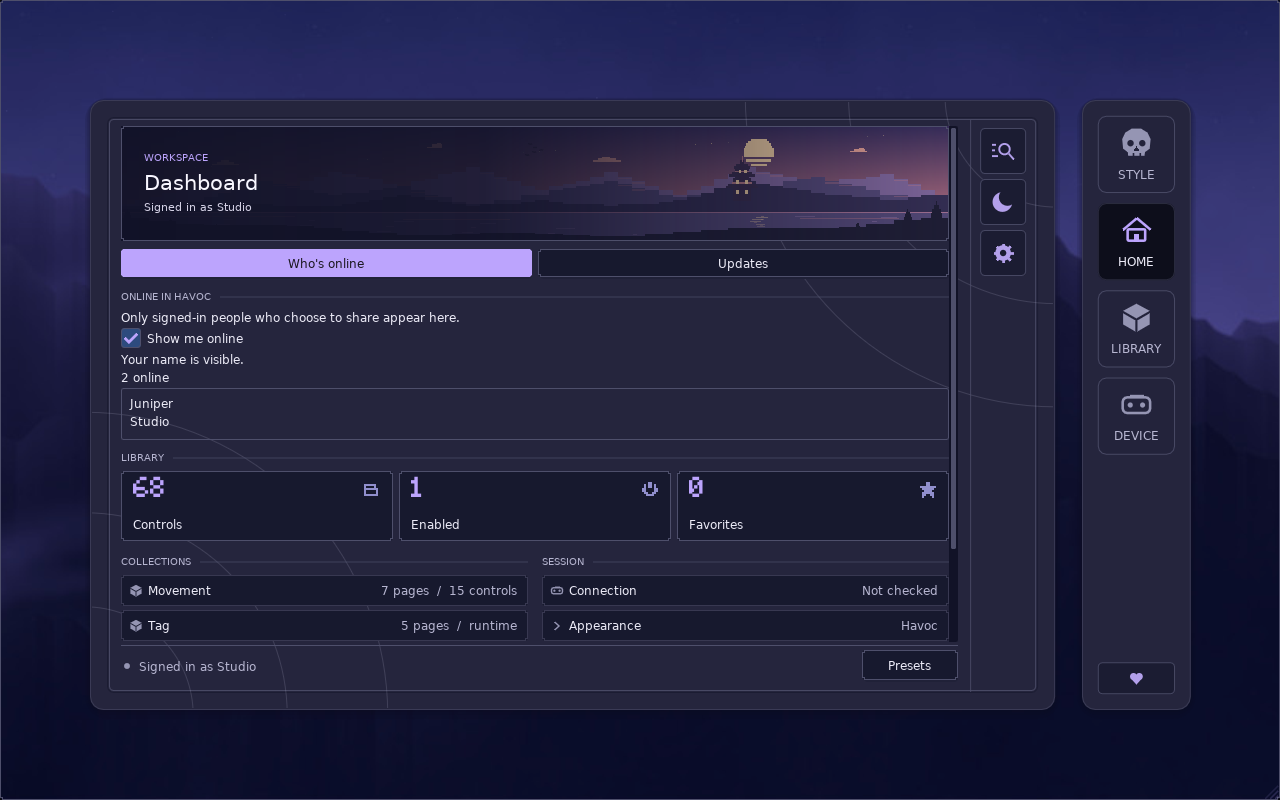
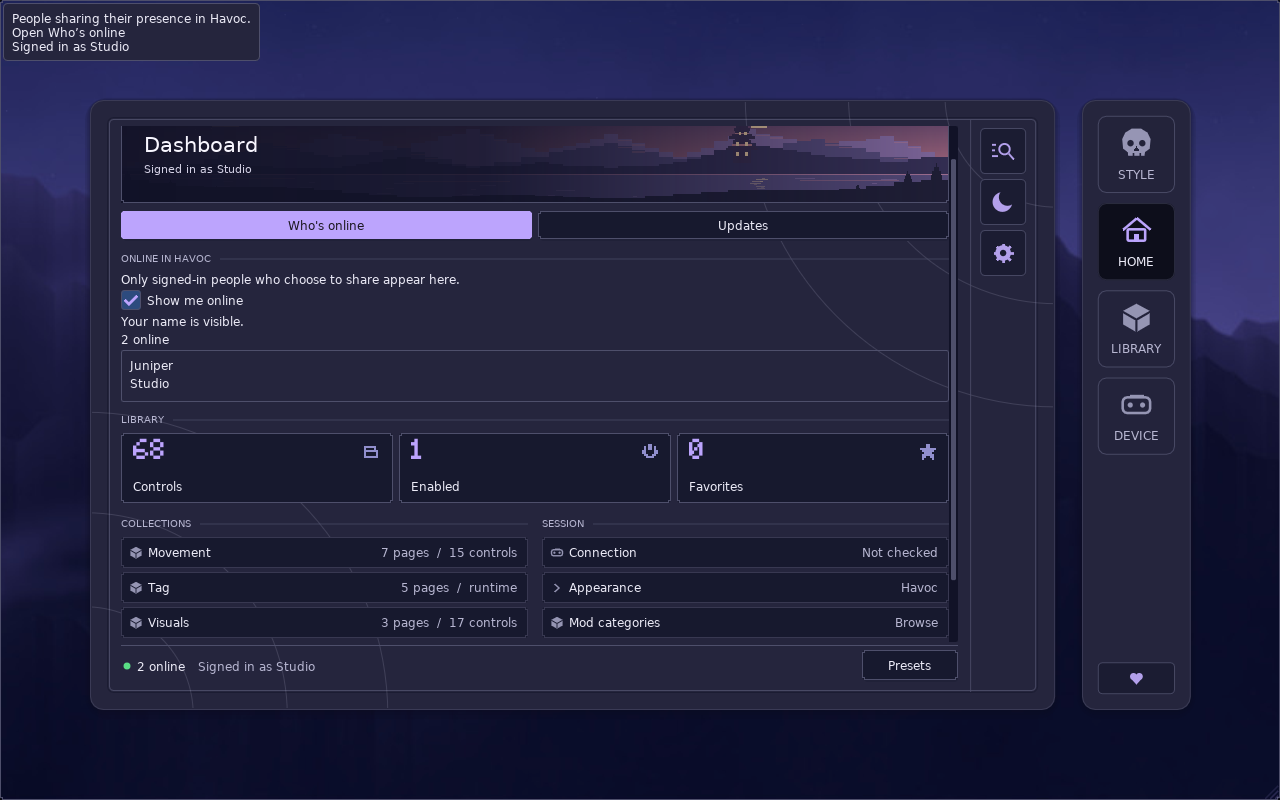
Show the verified online count in the bottom-left desktop status bar

diff --git a/public/_worker.js b/public/_worker.js
@@ -75,8 +75,8 @@ export default {
         const url = new URL(request.url);
         if (!url.pathname.startsWith(root)) return env.ASSETS.fetch(request);
         const route = url.pathname.slice(root.length);
-        if (!["session","live","members"].includes(route)) return json(404,{error:"Unknown endpoint"});
-        const allowed = {session:["POST","DELETE"],live:["PUT"],members:["GET"]}[route];
+        if (!["session","live","members","count"].includes(route)) return json(404,{error:"Unknown endpoint"});
+        const allowed = {session:["POST","DELETE"],live:["PUT"],members:["GET"],count:["GET"]}[route];
         if (!allowed.includes(request.method)) return json(405,{error:"Method unavailable"});
         const origin = request.headers.get("Origin");
         if (origin && origin !== url.origin) return json(403,{error:"Origin rejected"});
@@ -106,6 +106,11 @@ export default {
             if (route === "session") {
                 await db.prepare("DELETE FROM presence_session WHERE token_hash=?").bind(hash).run();
                 return json(200,{ok:true});
+            }
+            if (route === "count") {
+                const row = await db.prepare("SELECT COUNT(DISTINCT member) AS count FROM presence_session WHERE visible_until>? AND expires>?")
+                                    .bind(now,now).first();
+                return json(200,{count:row.count});
             }
             const after = url.searchParams.get("after") || "";
             if (after && !/^[0-9a-f]{24}$/.test(after)) return json(400,{error:"Invalid cursor"});

diff --git a/public/desktop/HavocMidnight.py b/public/desktop/HavocMidnight.py
@@ -1785,9 +1785,6 @@ def _utilities(panel, c, actions, positions):
                 panel.midnight_tab = "Controls"
             if imgui.menu_item("Use Classic layout", "", False)[0]:
                 panel._set_visual("menu_layout", "Classic")
-            if panel.section == "Appearance":
-                imgui.separator()
-                panel._footer()
             imgui.separator()
         if panel.changelog and imgui.menu_item("Release notes", "", False)[0]:
             panel._show_logs = True
@@ -1984,16 +1981,7 @@ def workspace(panel, now, notice=None):
         page = panel.section
     elif notice is None:
         page = "Credits" if panel._signed_out_credits else "Sign in"
-    if private and page == "Appearance":
-        tab_h = imgui.get_frame_height() + 7 * z
-        if narrow:
-            imgui.set_cursor_screen_pos(a_body)
-            a_body = V(a_body.x, a_body.y + tab_h)
-        else:
-            b_body = V(b_body.x, b_body.y - tab_h)
-            imgui.set_cursor_screen_pos(V(a_body.x, b_body.y + 3 * z))
-        _tabs(panel, c)
-    elif private:
+    if private:
         # Keep status and local presets in reach while the page itself scrolls.
         footer_h = max(37 * z, imgui.get_frame_height() + 10 * z) + imgui.get_style().item_spacing.y
         imgui.set_cursor_screen_pos(V(a_body.x, b_body.y - footer_h))
@@ -2006,6 +1994,15 @@ def workspace(panel, now, notice=None):
             panel._footer()
         imgui.end_child()
         b_body = V(b_body.x, b_body.y - footer_h - 3 * z)
+    if private and page == "Appearance":
+        tab_h = imgui.get_frame_height() + 7 * z
+        if narrow:
+            imgui.set_cursor_screen_pos(a_body)
+            a_body = V(a_body.x, a_body.y + tab_h)
+        else:
+            b_body = V(b_body.x, b_body.y - tab_h)
+            imgui.set_cursor_screen_pos(V(a_body.x, b_body.y + 3 * z))
+        _tabs(panel, c)
     imgui.set_cursor_screen_pos(a_body)
     imgui.begin_child("midnight-body", V(max(1, b_body.x - a_body.x), max(1, b_body.y - a_body.y)))
     _page(panel, c, now, page, notice)
@@ -2410,7 +2407,7 @@ def visible_groups(groups, values, page, query, favorites):
     return result
 
 
-DESKTOP_RELEASE = "2026.11.19"
+DESKTOP_RELEASE = "2026.11.20"
 
 PAGES_ORIGIN = "https://havoc-midnight-preview.pages.dev"
 
@@ -2715,20 +2712,31 @@ class OnlineSession:
 
     def __init__(self):
         self.cv = threading.Condition()
-        self.desired = (False, False)
+        self.desired = (False, False, False)
         self.revision = 0
         self.ended = False
         self.thread = None
         self.snapshot = ("", None)
+        self._count = (None, 0)
 
-    def set_interest(self, share, view):
+    @property
+    def count(self):
+        value, checked = self._count
+        return value if 0 <= time.time() - checked < 75 else None
+
+    def set_interest(self, share, view, *, watch=False):
         with self.cv:
-            if self.ended or (share, view) == self.desired:
+            if self.ended or (share, view, watch) == self.desired:
                 return
-            self.desired = (share, view)
+            self.desired = (share, view, watch)
+            if not any(self.desired):
+                self._count = (None, 0)
             self.revision += 1
-            self.snapshot = ("Refreshing online status…" if share or view else "", None)
-            if self.thread is None and (share or view):
+            self.snapshot = (
+                "Refreshing online status…" if any(self.desired) else "",
+                None,
+            )
+            if self.thread is None and any(self.desired):
                 self.thread = threading.Thread(
                     target=self._run, daemon=True, name="havoc-online"
                 )
@@ -2736,7 +2744,7 @@ class OnlineSession:
                     self.thread.start()
                 except RuntimeError:
                     self.thread = None
-                    self.desired = (False, False)
+                    self.desired = (False, False, False)
                     self.snapshot = ("Could not start the online list.", None)
             self.cv.notify_all()
 
@@ -2745,6 +2753,7 @@ class OnlineSession:
             self.ended = True
             self.revision += 1
             self.snapshot = ("", None)
+            self._count = (None, 0)
             self.cv.notify_all()
 
     @staticmethod
@@ -2758,15 +2767,16 @@ class OnlineSession:
     def _run(self):
         token = None
         retry = 5
+        was_sharing = False
         try:
             while True:
                 with self.cv:
                     if self.ended:
                         return
-                    share, view = self.desired
+                    share, view, watch = self.desired
                     rev = self.revision
                 delay = None
-                if share or view:
+                if share or view or watch:
                     try:
                         if token is None:
                             primary, legacy = machine_ids()
@@ -2783,12 +2793,20 @@ class OnlineSession:
                         with self.cv:
                             if self.revision != rev:
                                 continue
-                        presence_request("live", "PUT", token, {"visible": share})
+                        if share or view or was_sharing:
+                            was_sharing = share or was_sharing
+                            presence_request("live", "PUT", token, {"visible": share})
+                            was_sharing = share
                         names = (
                             online_roster(token, lambda rev=rev: self.revision == rev)
                             if view
                             else None
                         )
+                        count = len(names) if names is not None else None
+                        if watch and not view:
+                            count = presence_request("count", token=token)["count"]
+                            if type(count) is not int or count < 0:
+                                raise ValueError("Invalid online count")
                         result = (
                             "Your name is visible."
                             if share
@@ -2803,6 +2821,7 @@ class OnlineSession:
                         KeyError,
                         TypeError,
                     ) as exc:
+                        count = None
                         status = getattr(exc.__cause__, "code", None)
                         if status == 401 and token:
                             token, delay = None, 0
@@ -2825,9 +2844,10 @@ class OnlineSession:
                     with self.cv:
                         if self.revision == rev:
                             self.snapshot = result
+                            self._count = (count, time.time())
                 else:
                     self._leave(token)
-                    token, retry = None, 5
+                    token, retry, was_sharing = None, 5, False
                 with self.cv:
                     self.cv.wait_for(
                         lambda rev=rev: self.ended or self.revision != rev,
@@ -3659,7 +3679,7 @@ class Panel:
         self.just_updated, self._show_logs = None, False
         self.changelog = {
             "title": "Havoc Midnight",
-            "notes": "Home now shows the opt-in online list. Check for a new desktop release here and install it from Havoc.",
+            "notes": "The bottom-left status bar now shows how many people are sharing their presence. Select the count to open Who’s online.",
         }
         self.headset = HeadsetPanel(self)
         self._audio = MenuAudio(ASSET_ROOT)
@@ -3766,7 +3786,36 @@ class Panel:
             self._request_close()
         if self.workspace_open:
             viewing = self.section == "Dashboard" and self._online_open and not self._show_logs
-            self.online.set_interest(self._share_online, viewing)
+            self.online.set_interest(self._share_online, viewing, watch=True)
+
+    def _footer_status(self, width):
+        if width <= 1:
+            return
+        count = self.online.count
+        label = f"{count:,} online" if count is not None else "Online —"
+        z = self.zoom
+        height = 32 * z
+        label = self._fit_label(label, max(1, width - 19*z))
+        badge = min(width, imgui.calc_text_size(label).x + 19*z)
+        p = imgui.get_cursor_screen_pos()
+        clicked = imgui.invisible_button("##online-count", ImVec2(badge, height), imgui.ButtonFlags_.enable_nav)
+        dl, color = imgui.get_window_draw_list(), imgui.get_color_u32
+        center = ImVec2(p.x + 6*z, p.y + height/2)
+        ink = ImVec4(0.35, 0.87, 0.52, 1) if count is not None else FAINT
+        dl.add_circle_filled(center, 3.5*z, color(ink), 16)
+        y = center.y - imgui.get_font_size()/2
+        dl.add_text(ImVec2(p.x + 16*z, y), color(TEXT), label)
+        lines = str(self.msg).splitlines()
+        message = lines[-1] if lines else ""
+        room = width - badge - 16*z
+        if room > 48*z and message:
+            dl.add_text(ImVec2(p.x + badge + 10*z, y), color(MUTED), self._fit_label(message, room))
+        if imgui.is_item_hovered() or imgui.is_item_focused():
+            detail = "People sharing their presence in Havoc." if count is not None else (self.online.snapshot[0] or "Checking online status…")
+            imgui.set_tooltip(detail + "\nOpen Who’s online" + ("\n" + message if message else ""))
+        if clicked:
+            self._navigate("Dashboard")
+            self._online_open = self._reveal_online = True
 
     def _home_services(self):
         width = max(1, imgui.get_content_region_avail().x)
@@ -3776,6 +3825,9 @@ class Panel:
         imgui.same_line()
         if self._button("Updates", half, 30):
             self._show_logs = True
+        if getattr(self, "_reveal_online", False):
+            imgui.set_scroll_here_y(0.03)
+            self._reveal_online = False
         if not self._online_open:
             return
         imgui.spacing()
@@ -3785,7 +3837,7 @@ class Panel:
         if changed:
             self._share_online = share
             self._save_display_settings(online_share_for=self._online_pref_key() if share else None)
-            self.online.set_interest(share, True)
+            self.online.set_interest(share, True, watch=True)
         status, names = self.online.snapshot
         if status:
             imgui.text_wrapped(status)
@@ -5998,13 +6050,8 @@ class Panel:
         start = imgui.get_cursor_pos()
         w = max(1, imgui.get_content_region_avail().x)
         button_w = min(96, w)
-        p = imgui.get_cursor_screen_pos()
-        dl, color = imgui.get_window_draw_list(), imgui.get_color_u32
-        dl.add_circle_filled(ImVec2(p.x + 6, p.y + 16), 3, color(FAINT), 12)
-        message = str(self.msg).splitlines()
-        short = self._fit_label(message[-1] if message else "", w - button_w - 34)
-        dl.add_text(ImVec2(p.x + 18, p.y + (32 - imgui.get_font_size()) / 2), color(MUTED), short)
-        imgui.set_cursor_pos_x(start.x + w - button_w)
+        self._footer_status(w - button_w - imgui.get_style().item_spacing.x)
+        imgui.set_cursor_pos(ImVec2(start.x + w - button_w, start.y))
         if self._button("Presets", button_w):
             imgui.open_popup("local-presets")
         imgui.set_next_window_size_constraints(ImVec2(min(282, w), 0), ImVec2(max(w, 1), 420))

diff --git a/tests/test_desktop_services.py b/tests/test_desktop_services.py
@@ -144,6 +144,48 @@ def until(check):
 
 
 class OnlineDeskTests(unittest.TestCase):
+    def test_footer_refreshes_total_without_fetching_names_or_sharing(self):
+        calls = []
+
+        def api(route, *args, **kwargs):
+            calls.append(route)
+            if route == "session":
+                return {"token": "d" * 64}
+            if route == "members":
+                return {"members": [], "next": None}
+            if route == "count":
+                return {"count": 3}
+            return {"ok": True}
+
+        with patch.object(app, "presence_request", side_effect=api):
+            online = app.OnlineSession()
+            online.set_interest(False, False, watch=True)
+            try:
+                until(lambda: online.count == 3)
+                self.assertEqual(calls, ["session", "count"])
+                with patch.object(app.time, "time", return_value=time.time() + 101):
+                    self.assertIsNone(online.count)
+                online.set_interest(False, True, watch=True)
+                until(lambda: online.count == 0 and online.snapshot[1] == ())
+                self.assertEqual(calls.count("count"), 1)
+            finally:
+                online.close()
+                online.thread.join(1)
+            self.assertIsNone(online.count)
+
+    def test_footer_rejects_invalid_totals(self):
+        with patch.object(
+            app,
+            "presence_request",
+            side_effect=[{"token": "d" * 64}, {"count": False}, {"ok": True}],
+        ):
+            online = app.OnlineSession()
+            online.set_interest(False, False, watch=True)
+            until(lambda: "unavailable" in online.snapshot[0])
+            self.assertIsNone(online.count)
+            online.close()
+            online.thread.join(1)
+
     def test_private_default_share_hide_and_logout(self):
         calls = []
         token = "d" * 64

diff --git a/README.md b/README.md
@@ -8,7 +8,7 @@ Save the Python file in a writable folder. On Windows, install the UI library wi
 
 Open **Home → Updates** or **Sign in → Release notes** and select **Check for updates**. When a newer release is available, **Install … and restart** downloads it, verifies it and restarts Havoc. The preceding file is saved beside the desktop as `HavocMidnight.py.previous`.
 
-Open **Home → Who's online** to view the names shared by verified Havoc desktop users. **Show me online** starts sharing your verified display name. Visibility starts off. An explicit logout clears the saved choice. Normal exits send a best-effort sign-out. An interrupted connection expires after at most 100 seconds. An unreachable service shows a retry message.
+The green dot in the bottom-left status bar shows how many verified users are sharing their presence. It refreshes every 30 seconds. A gray dot and a dash mean a current count is unavailable. Select the count or open **Home → Who's online** to view the names shared by verified Havoc desktop users. **Show me online** starts sharing your verified display name. Visibility starts off. An explicit logout clears the saved choice. Normal exits send a best-effort sign-out. An interrupted connection expires after at most 100 seconds. An unreachable service shows a retry message.
 
 [Online list with two local test accounts](previews/online-test-accounts.png) · [Update offered to an older desktop copy](previews/desktop-update.png)
 
